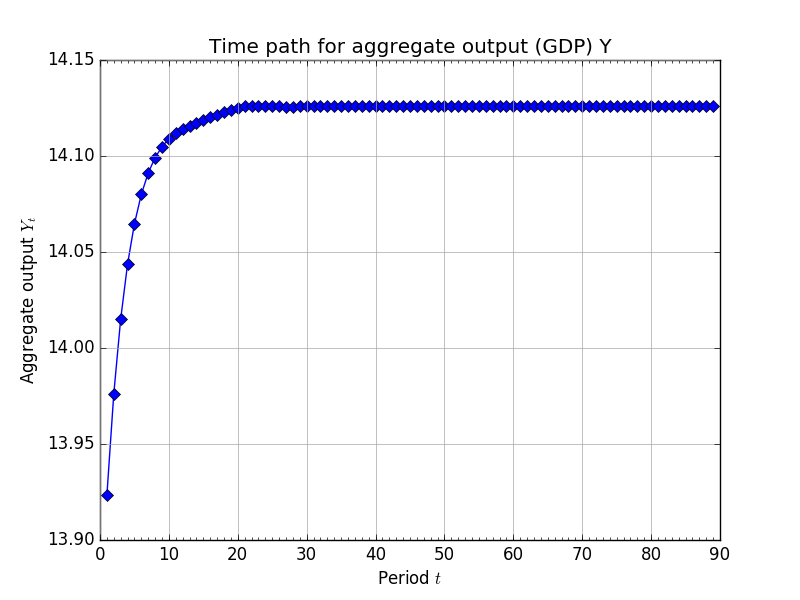
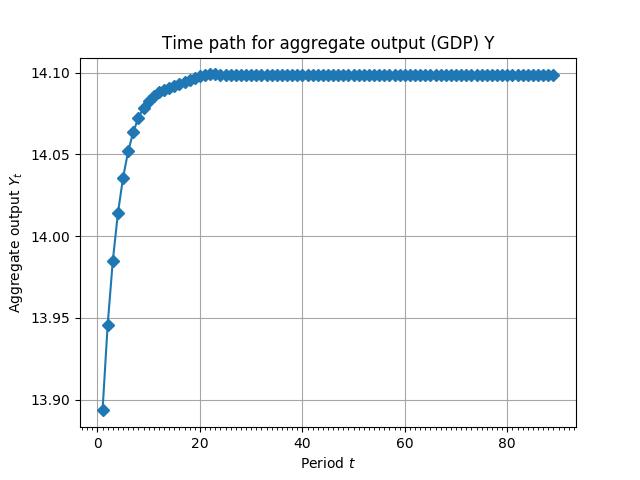
Added new plots for heterogeneous ability OG code

diff --git a/HeteroAbil/TPI.py b/HeteroAbil/TPI.py
@@ -449,9 +449,9 @@ def get_TPI(params, bmat1, graphs):
         print(
             'TPI iter: ', iter_TPI, ', dist: ', "%10.4e" % (dist),
             ', max abs all errs: ', "%10.4e" %
-            (np.hstack(np.absolute(b_err_path).max(),
+            (np.hstack((np.absolute(b_err_path).max(),
              np.absolute(n_err_path).max(),
-             np.absolute(bSp1_err_path).max())).max())
+             np.absolute(bSp1_err_path).max()))).max())
         # The resource constraint does not bind across the transition
         # path until the equilibrium is solved
         Kpath_init = xi * Kpath_new + (1 - xi) * Kpath_init

diff --git a/HeteroAbil/execute.py b/HeteroAbil/execute.py
@@ -91,7 +91,7 @@ TPI_EulDiff   = Boolean, =True if want difference version of Euler
 '''
 # Household parameters
 S = int(20)
-lambdas = np.array([0.40, 0.35, 0.25])
+lambdas = np.array([0.4, 0.3, 0.2, 0.1])
 # Make sure that lambdas vector sums to 1.0
 if not np.isclose(1.0, lambdas.sum()):
     err_msg = ('ERROR: lambdas vector does not sum to one.')
@@ -115,7 +115,7 @@ alpha = 0.35
 delta_annual = 0.05
 delta = 1 - ((1 - delta_annual) ** (80 / S))
 # SS parameters
-SS_solve = False
+SS_solve = True
 SS_tol = 1e-13
 SS_graphs = True
 SS_EulDiff = True
